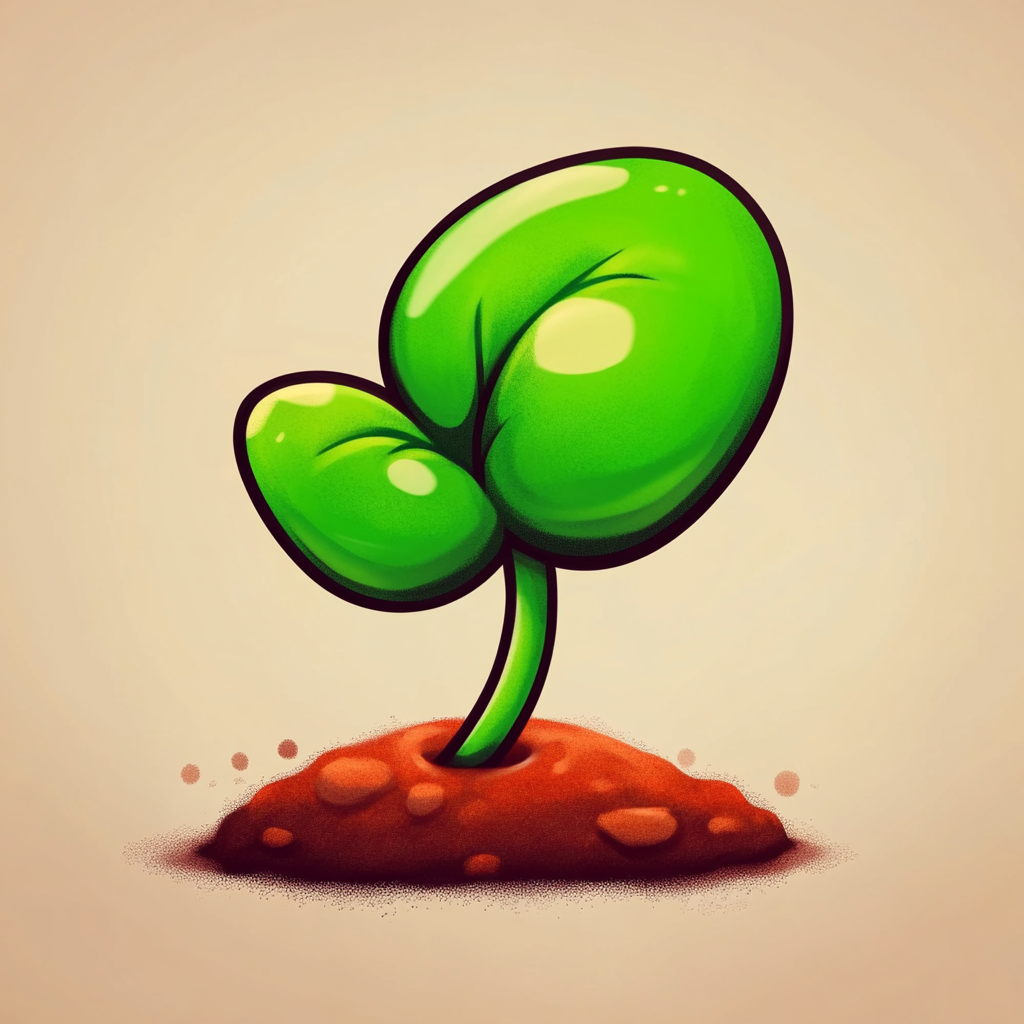
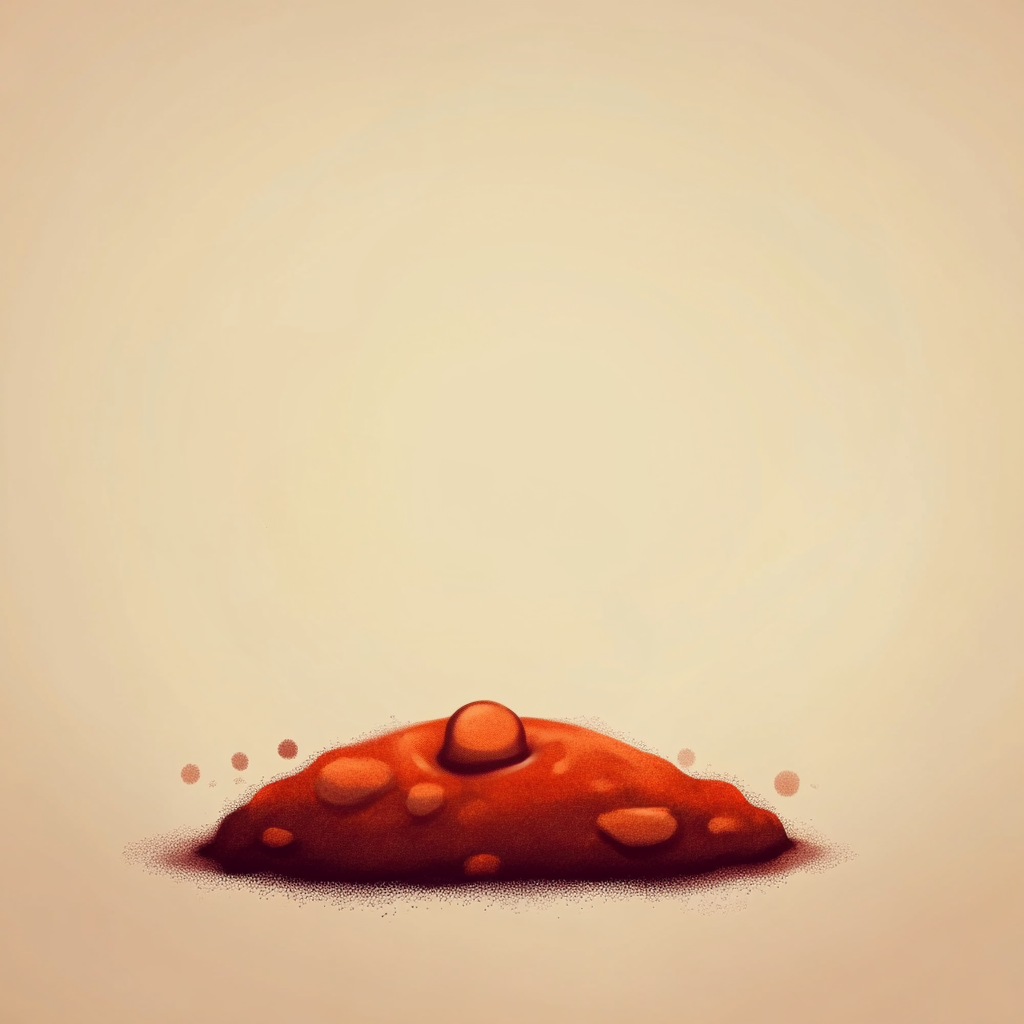
improve ui

Changed region(s): [[0.2188, 0.125, 0.7812, 0.7812]]

diff --git a/index.html b/index.html
@@ -4,129 +4,140 @@
     <meta charset="utf-8">
     <meta name="viewport" content="width=device-width, initial-scale=1.0, minimum-scale=1.0, maximum-scale=1.0, user-scalable=no" />
     <meta http-equiv="X-UA-Compatible" content="IE=edge" />
-    <title>Pomodoro Timer - Telegram Mini App</title>
+    <title>Pomodoro Forest - Telegram Mini App</title>
     <style>
         body {
-            --bg-color: var(--tg-theme-bg-color);
-            font: 16px/1.5 "Lucida Grande", "Lucida Sans Unicode", Arial, Helvetica, Verdana, sans-serif;
-            background-color: var(--bg-color);
-            color: var(--tg-theme-text-color);
+            font-family: Arial, sans-serif;
+            background-color: #F0E6D2; /* Light beige background color */
+            color: #333;
             margin: 0;
             padding: 20px;
             display: flex;
             flex-direction: column;
             align-items: center;
-            justify-content: center;
+            justify-content: space-between;
             min-height: 100vh;
-            color-scheme: var(--tg-color-scheme);
         }
 
-        h1 {
+        .header {
+            display: flex;
+            justify-content: space-between;
+            width: 100%;
+            align-items: center;
+        }
+
+        .menu-icon {
             font-size: 24px;
-            margin-bottom: 20px;
+            color: #4A7023; /* Dark green color for menu icon */
         }
 
-        #timer {
-            font-size: 48px;
-            font-weight: bold;
-            margin-bottom: 20px;
+        .rewards {
+            display: flex;
+            align-items: center;
         }
 
-        button {
-            font-size: 16px;
-            padding: 10px 20px;
-            margin: 0 10px;
-            background-color: var(--tg-theme-button-color);
-            color: var(--tg-theme-button-text-color);
-            border: none;
-            border-radius: 5px;
-            cursor: pointer;
+        .coin {
+            width: 20px;
+            height: 20px;
+            background-color: #FFD700;
+            border-radius: 50%;
+            margin-right: 5px;
         }
 
-        #status {
-            margin-top: 20px;
-            font-size: 18px;
-            font-weight: bold;
-        }
-
-        #plant-container {
+        .plant-container {
             width: 200px;
             height: 200px;
+            background-color: #4A7023; /* Dark green color for plant container */
+            border-radius: 50%;
+            display: flex;
+            justify-content: center;
+            align-items: center;
+            overflow: hidden;
             margin: 20px 0;
-            position: relative;
         }
 
         .plant-image {
-            position: absolute;
             width: 100%;
             height: 100%;
             object-fit: contain;
-            opacity: 0;
             transition: opacity 1s ease-in-out;
         }
 
-        .plant-image.active {
-            opacity: 1;
+        .timer {
+            font-size: 48px;
+            font-weight: bold;
+            margin: 20px 0;
+            color: #E53935; /* Red color for timer */
+        }
+
+        .plant-button {
+            background-color: #E53935; /* Red color for button */
+            color: white;
+            border: none;
+            padding: 10px 20px;
+            font-size: 18px;
+            border-radius: 25px;
+            cursor: pointer;
+        }
+
+        .message {
+            font-size: 18px;
+            margin-bottom: 20px;
+            color: #4A7023; /* Dark green color for messages */
         }
     </style>
 </head>
 
 <body>
-    <h1>Pomodoro Timer</h1>
-    <div id="timer">25:00</div>
-    <div id="plant-container">
-        <img src="assets/1.png" alt="Tomato Plant 1" class="plant-image" id="plant1">
-        <img src="assets/2.png" alt="Tomato Plant 2" class="plant-image" id="plant2">
+    <div class="header">
+        <div class="menu-icon">☰</div>
+        <div class="rewards">
+            <div class="coin"></div>
+            <span id="points">0</span>
+        </div>
     </div>
-    <div>
-        <button id="startBtn">Start</button>
-        <button id="resetBtn">Reset</button>
+
+    <div class="message" id="message">Start planting today!</div>
+
+    <div class="plant-container">
+        <img src="assets/1.png" alt="Plant" class="plant-image" id="plant-image">
     </div>
-    <div id="status">Work Time</div>
+
+    <div class="timer" id="timer">05:00</div>
+
+    <button class="plant-button" id="plantBtn">Plant</button>
 
     <script src="https://telegram.org/js/telegram-web-app.js"></script>
     <script>
-        // Init TWA
         Telegram.WebApp.ready();
 
         let timer;
-        let minutes = 25;
-        let seconds = 0;
+        let seconds = 300; // 5 minutes
         let isActive = false;
-        let isBreak = false;
-        let currentPlant = 1;
+        let points = 0;
 
         const timerDisplay = document.getElementById('timer');
-        const startBtn = document.getElementById('startBtn');
-        const resetBtn = document.getElementById('resetBtn');
-        const statusDisplay = document.getElementById('status');
-        const plant1 = document.getElementById('plant1');
-        const plant2 = document.getElementById('plant2');
+        const plantBtn = document.getElementById('plantBtn');
+        const messageDisplay = document.getElementById('message');
+        const pointsDisplay = document.getElementById('points');
+        const plantImage = document.getElementById('plant-image');
 
         function updateDisplay() {
-            timerDisplay.textContent = `${String(minutes).padStart(2, '0')}:${String(seconds).padStart(2, '0')}`;
-        }
-
-        function togglePlant() {
-            if (currentPlant === 1) {
-                plant1.classList.remove('active');
-                plant2.classList.add('active');
-                currentPlant = 2;
-            } else {
-                plant2.classList.remove('active');
-                plant1.classList.add('active');
-                currentPlant = 1;
-            }
+            const minutes = Math.floor(seconds / 60);
+            const remainingSeconds = seconds % 60;
+            timerDisplay.textContent = `${String(minutes).padStart(2, '0')}:${String(remainingSeconds).padStart(2, '0')}`;
         }
 
         function toggleTimer() {
             if (isActive) {
                 clearInterval(timer);
-                startBtn.textContent = 'Start';
+                plantBtn.textContent = 'Plant';
+                messageDisplay.textContent = 'Planting paused. Resume?';
             } else {
                 timer = setInterval(updateTimer, 1000);
-                startBtn.textContent = 'Pause';
-                plant1.classList.add('active');
+                plantBtn.textContent = 'Give up';
+                messageDisplay.textContent = 'Planting in progress...';
+                plantImage.src = 'assets/1.png';
             }
             isActive = !isActive;
         }
@@ -134,59 +145,45 @@
         function updateTimer() {
             if (seconds > 0) {
                 seconds--;
-            } else if (minutes > 0) {
-                minutes--;
-                seconds = 59;
-                togglePlant();
+                updateDisplay();
+                if (seconds === 150) { // at 2:30, show the grown plant
+                    plantImage.src = 'assets/2.png';
+                }
             } else {
                 clearInterval(timer);
                 isActive = false;
-                startBtn.textContent = 'Start';
-                if (isBreak) {
-                    minutes = 25;
-                    isBreak = false;
-                    statusDisplay.textContent = 'Work Time';
-                } else {
-                    minutes = 5;
-                    isBreak = true;
-                    statusDisplay.textContent = 'Break Time';
-                }
-                Telegram.WebApp.showAlert(isBreak ? 'Break time! Take 5 minutes off.' : 'Work time! Focus for 25 minutes.');
-                resetPlantDisplay();
+                plantBtn.textContent = 'Plant';
+                messageDisplay.textContent = 'Planting complete! Great job!';
+                points++;
+                pointsDisplay.textContent = points;
+                Telegram.WebApp.showAlert('You earned a point! Keep it up!');
             }
-            updateDisplay();
         }
 
         function resetTimer() {
             clearInterval(timer);
-            minutes = 25;
-            seconds = 0;
+            seconds = 300;
             isActive = false;
-            isBreak = false;
-            startBtn.textContent = 'Start';
-            statusDisplay.textContent = 'Work Time';
+            plantBtn.textContent = 'Plant';
+            messageDisplay.textContent = 'Start planting today!';
             updateDisplay();
-            resetPlantDisplay();
+            plantImage.src = 'assets/1.png';
         }
 
-        function resetPlantDisplay() {
-            plant1.classList.remove('active');
-            plant2.classList.remove('active');
-            currentPlant = 1;
-        }
-
-        startBtn.addEventListener('click', toggleTimer);
-        resetBtn.addEventListener('click', resetTimer);
+        plantBtn.addEventListener('click', function() {
+            if (isActive) {
+                if (confirm('Are you sure you want to give up?')) {
+                    resetTimer();
+                }
+            } else {
+                toggleTimer();
+            }
+        });
 
         // Set initial display
         updateDisplay();
 
-        // Event occurs whenever theme settings are changed in the user's Telegram app
-        Telegram.WebApp.onEvent('themeChanged', function() {
-            document.documentElement.className = Telegram.WebApp.colorScheme;
-        });
-
-        Telegram.WebApp.MainButton.setText('Close Timer');
+        Telegram.WebApp.MainButton.setText('Close Forest');
         Telegram.WebApp.MainButton.onClick(function () {
             Telegram.WebApp.close();
         });
